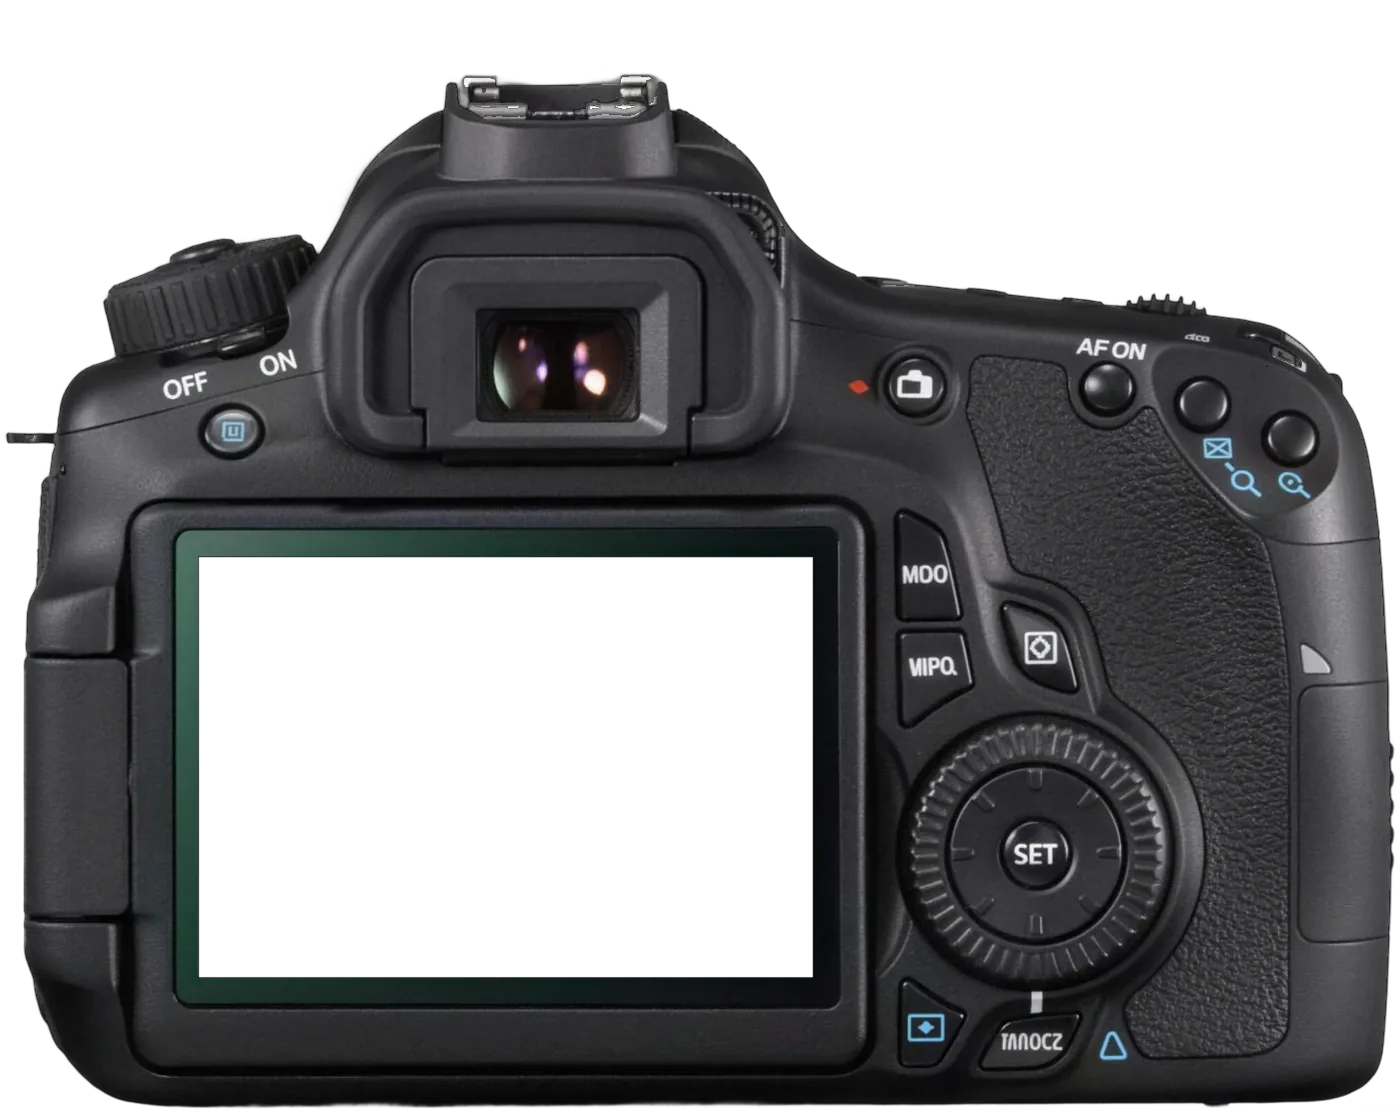
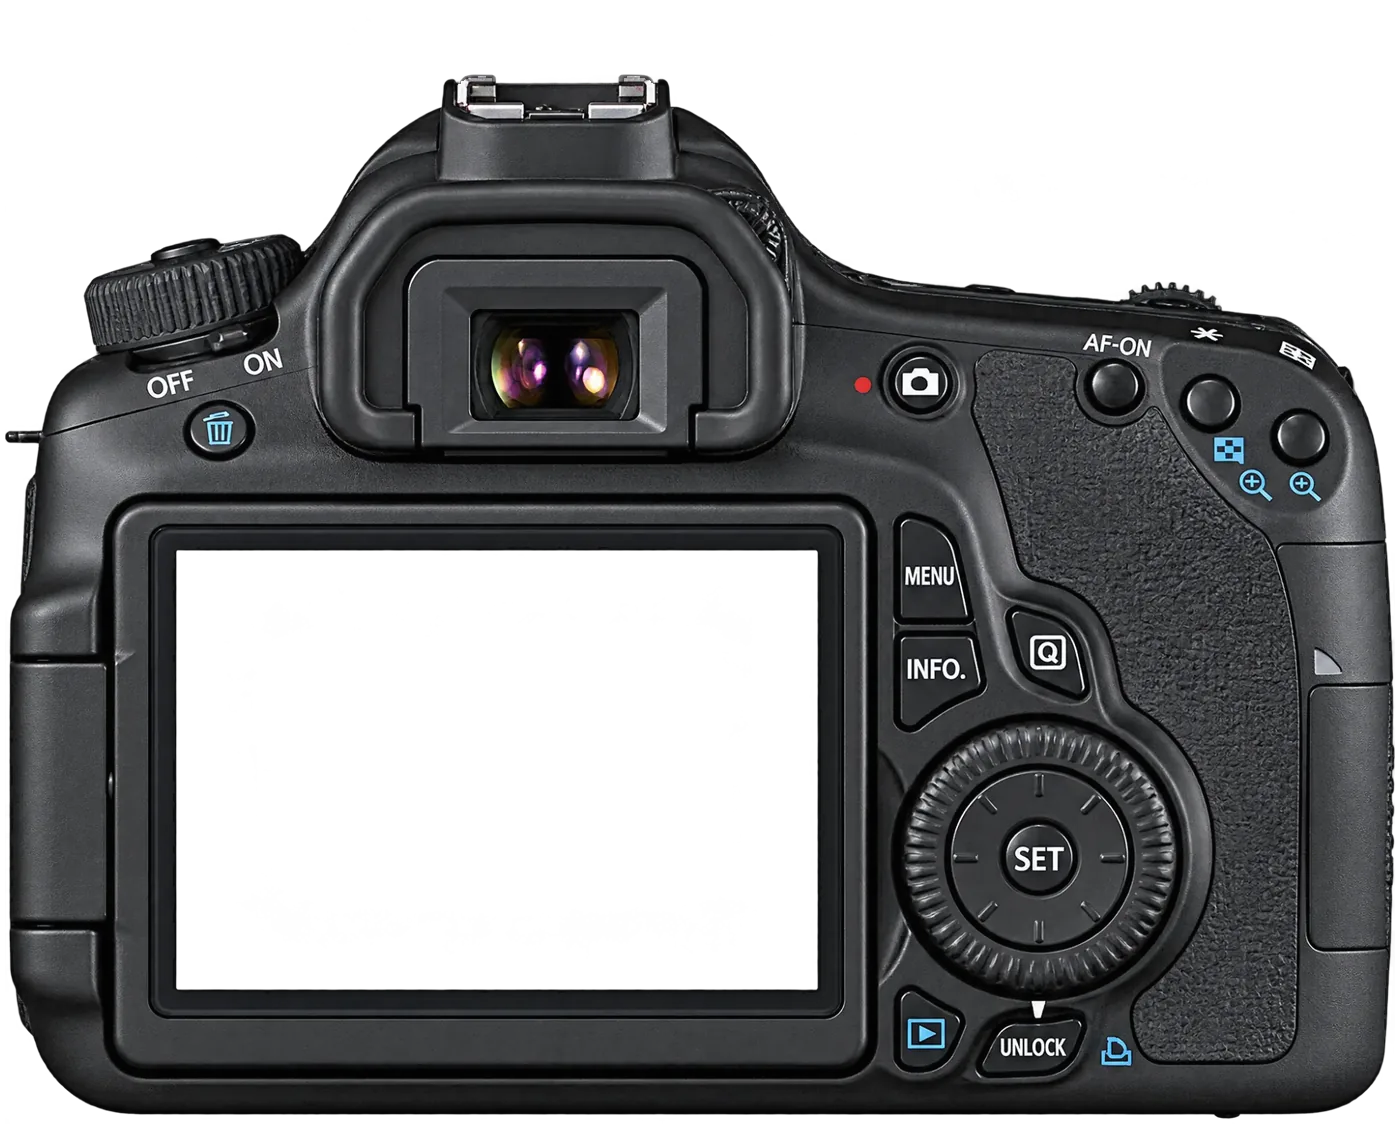
mfilm.app: the 60D's back a clean photo, its buttons measured again
The new photo has the trash button by the power switch, MENU and INFO.
beside the screen, Q to the right of them.

Claude-Session: https://claude.ai/code/session_01LE2MRUii5F7FFV9beVjArd

Changed region(s): [[0.0, 0.0611, 1.0, 1.0]]

diff --git a/site/js/bodies.js b/site/js/bodies.js
@@ -102,7 +102,7 @@ const PHOTOS = {
   '600d': {"image": "img/backs/600d.webp", "view": [1400, 1110], "screen": [195, 513, 702, 484], "photo": true, "shutter": [1250, 289, 92], "power": [1222, 300], "dial": {"x": 1095, "y": 865, "r": 120, "ring": false}, "controls": [["MENU", 212, 412, 32, "pill"], ["INFO", 322, 412, 32, "pill"], ["LV", 922, 380, 33], ["Q", 1040, 690, 34], ["PLAY", 1020, 1025, 34], ["HOME", 1153, 1025, 34]], "top": [1142, 312, 96]},
   '650d': {"image": "img/backs/650d.webp", "view": [1400, 1130], "screen": [217, 527, 697, 453], "photo": true, "shutter": [1250, 311, 92], "power": [1175, 300], "dial": {"x": 1100, "y": 880, "r": 115, "ring": false}, "controls": [["MENU", 197, 402, 38], ["INFO", 313, 405, 38], ["LV", 905, 385, 33], ["Q", 1050, 705, 34], ["PLAY", 1030, 1040, 34], ["HOME", 1155, 1040, 34]], "top": [1142, 334, 96]},
   '700d': {"image": "img/backs/700d.webp", "view": [1400, 1126], "screen": [219, 525, 694, 454], "photo": true, "shutter": [1250, 303, 92], "power": [1180, 300], "dial": {"x": 1100, "y": 882, "r": 115, "ring": false}, "controls": [["MENU", 197, 400, 38], ["INFO", 312, 400, 38], ["LV", 905, 390, 33], ["Q", 1048, 710, 34], ["PLAY", 1025, 1037, 34], ["HOME", 1155, 1037, 34]], "top": [1142, 326, 96]},
-  '60d': {"image": "img/backs/60d.webp", "view": [1400, 1113], "screen": [200, 558, 611, 418], "photo": true, "shutter": [1250, 300, 92], "power": [240, 340], "dial": {"x": 1035, "y": 855, "r": 140, "ring": true}, "controls": [["MENU", 925, 578, 32], ["INFO", 930, 668, 32], ["Q", 1040, 650, 32], ["LV", 915, 382, 34], ["PLAY", 925, 1030, 32], ["HOME", 1030, 1040, 32]], "top": null},
+  '60d': {"image": "img/backs/60d.webp", "view": [1400, 1124], "screen": [177, 552, 639, 436], "photo": true, "shutter": [1250, 293, 92], "power": [222, 330], "dial": {"x": 1038, "y": 858, "r": 140, "ring": true}, "controls": [["HOME", 218, 430, 32], ["LV", 920, 382, 34], ["MENU", 935, 575, 32], ["INFO", 938, 668, 32], ["Q", 1047, 652, 30], ["PLAY", 925, 1032, 30]], "top": null},
   '70d': {"image": "img/backs/70d.webp", "view": [1400, 1138], "screen": [199, 543, 669, 458], "photo": true, "shutter": [1250, 309, 92], "power": [285, 288], "dial": {"x": 1055, "y": 868, "r": 140, "ring": true}, "controls": [["MENU", 152, 422, 36], ["INFO", 250, 422, 36], ["LV", 905, 422, 46], ["Q", 968, 575, 32], ["PLAY", 985, 672, 32], ["HOME", 968, 1035, 32]], "top": null},
   '6d': {"image": "img/backs/6d.webp", "view": [1400, 1155], "screen": [185, 532, 659, 463], "photo": true, "shutter": [1250, 317, 92], "power": [240, 350], "dial": {"x": 1035, "y": 880, "r": 150, "ring": true}, "controls": [["MENU", 185, 438, 34], ["INFO", 290, 438, 34], ["LV", 925, 455, 46], ["Q", 1032, 640, 32], ["PLAY", 920, 690, 32], ["HOME", 920, 1065, 32]], "top": null},
   '5d3': {"image": "img/backs/5d3.webp", "view": [1400, 1191], "screen": [207, 586, 629, 430], "photo": true, "shutter": [1250, 334, 92], "power": [215, 365], "dial": {"x": 1045, "y": 912, "r": 150, "ring": true}, "controls": [["MENU", 140, 453, 36], ["INFO", 245, 453, 36], ["LV", 903, 460, 44], ["Q", 933, 740, 32], ["PLAY", 120, 905, 36], ["HOME", 120, 1015, 36]], "top": null, "joystick": [960, 615]},
